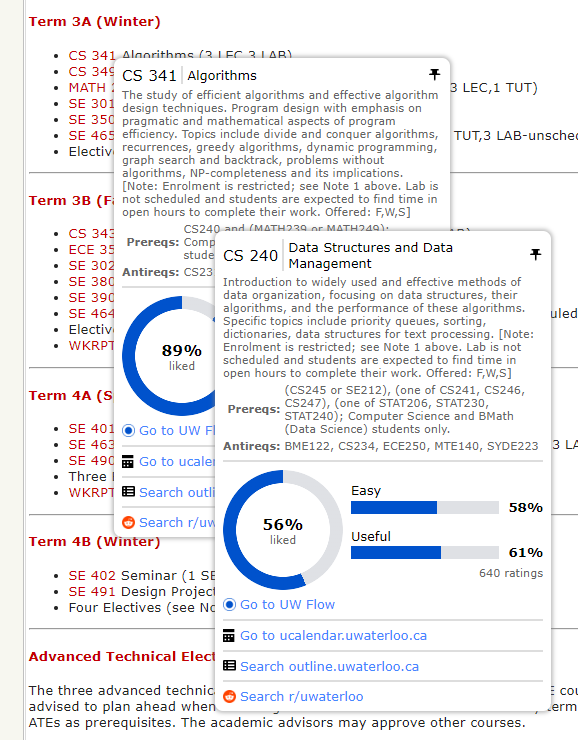
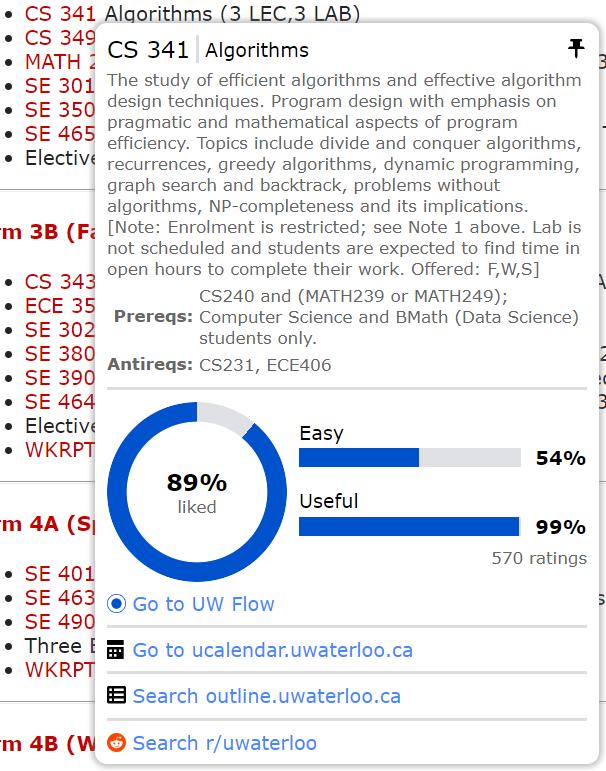
Fix tooltip styling

diff --git a/src/shared/tooltip.js b/src/shared/tooltip.js
@@ -16,6 +16,15 @@ function registerTooltipModule(modules, getModuleHTML, priority) {
 }
 
 // Helper function
+function attachTooltipModulesHandler(module, html) {
+  const fragment = document.createRange().createContextualFragment(html);
+  module.after(fragment);
+  module = module.nextSibling;
+  module.previousSibling.remove();
+  return module;
+}
+
+// Helper function
 function attachTooltipModules(tooltip, modules, tags) {
   modules.map(module => module[0]).forEach(getModuleHTML => {
     if (tooltip.hasChildNodes()) {
@@ -29,11 +38,9 @@ function attachTooltipModules(tooltip, modules, tags) {
     tooltip.appendChild(module);
 
     getModuleHTML(tooltip).then(html => {
-      module.innerHTML = html;
-      module = module.firstChild;
+      module = attachTooltipModulesHandler(module, html);
     }).catch(html => {
-      module.innerHTML = html;
-      module = module.firstChild;
+      module = attachTooltipModulesHandler(module, html);
     }).finally(() => {
       Array.from(module.querySelectorAll('.uwl-pin-controller')).forEach(pinController => {
         pinController.addEventListener('click', () => {

diff --git a/src/shared/tooltip.css b/src/shared/tooltip.css
@@ -88,10 +88,12 @@
 .uwl-tooltip hr {
   margin: 0;
   border: 1px solid var(--hr-colour);
+  background-color: var(--hr-colour);
 }
 
 .uwl-tooltip .uwl-vr {
   border: 1px solid var(--hr-colour);
+  background-color: var(--hr-colour);
 }
 
 .uwl-tooltip .uwl-module .uwl-footer {

diff --git a/README.md b/README.md
@@ -14,6 +14,6 @@ Course Tooltips:
 
 - Supports pinning (keep a tooltip open) and nesting (tooltips can open from other tooltips)
 
-![Image of course tooltip.](docs/course-tooltip.png)
+![Image of course tooltip.](docs/course-tooltip-nested.png)
 
 More types of tooltips may be added in the future.
